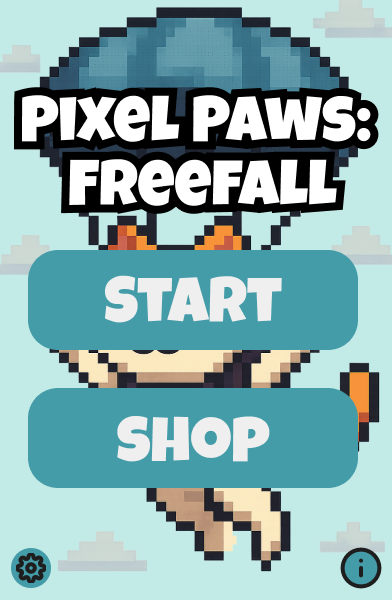
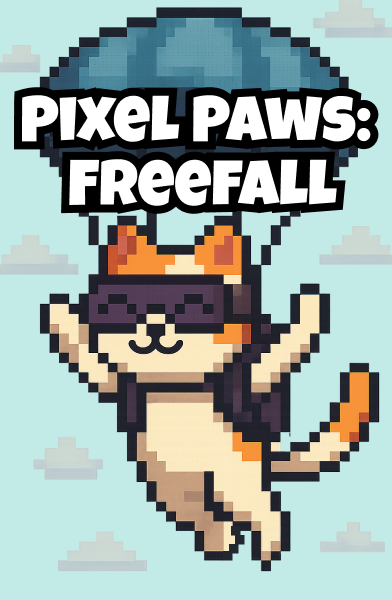
Created homepage with button

diff --git a/game.js b/game.js
@@ -1,0 +1,111 @@
+const canvas = document.getElementById("gameCanvas");
+const ctx = canvas.getContext("2d");
+const bg = new Image();
+
+//Menu Button
+let button = { x: 100, y: 300, width: 160, height: 50, radius: 12, text: "Start" };
+
+bg.src = "assets/Menu.png"; // path to your image
+
+bg.onload = () => {
+    ctx.drawImage(bg, 0, 0, canvas.width, canvas.height);
+};
+
+let currentScreen = "home"; // default view
+
+// Button listeners
+document.getElementById("btnHome").addEventListener("click", () => {
+    currentScreen = "home";
+});
+document.getElementById("btnShop").addEventListener("click", () => {
+    currentScreen = "shop";
+});
+document.getElementById("settings").addEventListener("click", () => {
+    currentScreen = "settings";
+});
+document.getElementById("info").addEventListener("click", () => {
+    currentScreen = "info";
+});
+
+function roundRect(ctx, x, y, width, height, radius) {
+    ctx.beginPath();
+    ctx.moveTo(x + radius, y);
+    ctx.lineTo(x + width - radius, y);
+    ctx.quadraticCurveTo(x + width, y, x + width, y + radius);
+    ctx.lineTo(x + width, y + height - radius);
+    ctx.quadraticCurveTo(x + width, y + height, x + width - radius, y + height);
+    ctx.lineTo(x + radius, y + height);
+    ctx.quadraticCurveTo(x, y + height, x, y + height - radius);
+    ctx.lineTo(x, y + radius);
+    ctx.quadraticCurveTo(x, y, x + radius, y);
+    ctx.closePath();
+}
+
+function draw() {
+    ctx.clearRect(0, 0, canvas.width, canvas.height);
+
+    if (currentScreen === "home") {
+        ctx.clearRect(0, 0, canvas.width, canvas.height);
+
+        // draw background first
+        ctx.drawImage(bg, 0, 0, canvas.width, canvas.height);
+
+        // draws start button
+        ctx.fillStyle = "#459CA9";
+        roundRect(ctx, button.x, button.y, button.width, button.height, button.radius);
+        ctx.fill();
+
+        // Button text
+        ctx.fillStyle = "#EFEFEF";
+        ctx.font = "40px Luckiest Guy";
+        ctx.textAlign = "center";
+        ctx.textBaseline = "middle";
+        ctx.fillText(button.text, button.x + button.width / 2, button.y + button.height / 2);
+    }
+
+    else if (currentScreen === "shop") {
+        ctx.fillStyle = "#DFB792";
+        ctx.fillRect(0, 0, canvas.width, canvas.height);
+        ctx.fillStyle = "black";
+        ctx.font = "24px Arial";
+        ctx.fillText("🛒 Shop Screen", 100, 100);
+    }
+
+    else if (currentScreen === "settings") {
+        ctx.fillStyle = "#bdbdbdff";
+        ctx.fillRect(0, 0, canvas.width, canvas.height);
+        ctx.fillStyle = "black";
+        ctx.font = "24px Arial";
+        ctx.fillText("⚙ Settings Screen", 100, 100);
+    }
+
+    else if (currentScreen === "info") {
+        ctx.fillStyle = "#d4d4d4ff";
+        ctx.fillRect(0, 0, canvas.width, canvas.height);
+        ctx.fillStyle = "white";
+        ctx.font = "24px Arial";
+        ctx.fillText("ℹ Info Screen", 100, 100);
+    }
+}
+
+// Detect clicks
+canvas.addEventListener("click", (e) => {
+    const rect = canvas.getBoundingClientRect();
+    const mouseX = e.clientX - rect.left;
+    const mouseY = e.clientY - rect.top;
+
+    if (
+        mouseX >= button.x &&
+        mouseX <= button.x + button.width &&
+        mouseY >= button.y &&
+        mouseY <= button.y + button.height
+    ) {
+        alert("Button clicked!");
+    }
+});
+
+function gameLoop() {
+    draw();
+    requestAnimationFrame(gameLoop);
+}
+gameLoop();

diff --git a/index.html b/index.html
@@ -15,7 +15,7 @@
             <img src = "assets/logo.png" width="37%" height="20%"/>
             <div id="score">Coins: 0</div>
         </div>
-        <canvas id="game" width="360" height="440"></canvas>
+        <canvas id="gameCanvas" width="360" height="440"></canvas>
         <button id="btnHome">Home</button>
         <button id="btnShop">Shop</button>
         <button id="settings">Setting</button>

diff --git a/style.css b/style.css
@@ -16,7 +16,7 @@ h1{
     -webkit-text-stroke: 1px black; /* border thickness + color */
 }
 
-canvas#game {
+canvas#gameCanvas {
     display: block;
     background: #C2EAE7;
     box-shadow: 0 8px 24px rgba(0, 0, 0, .45);
